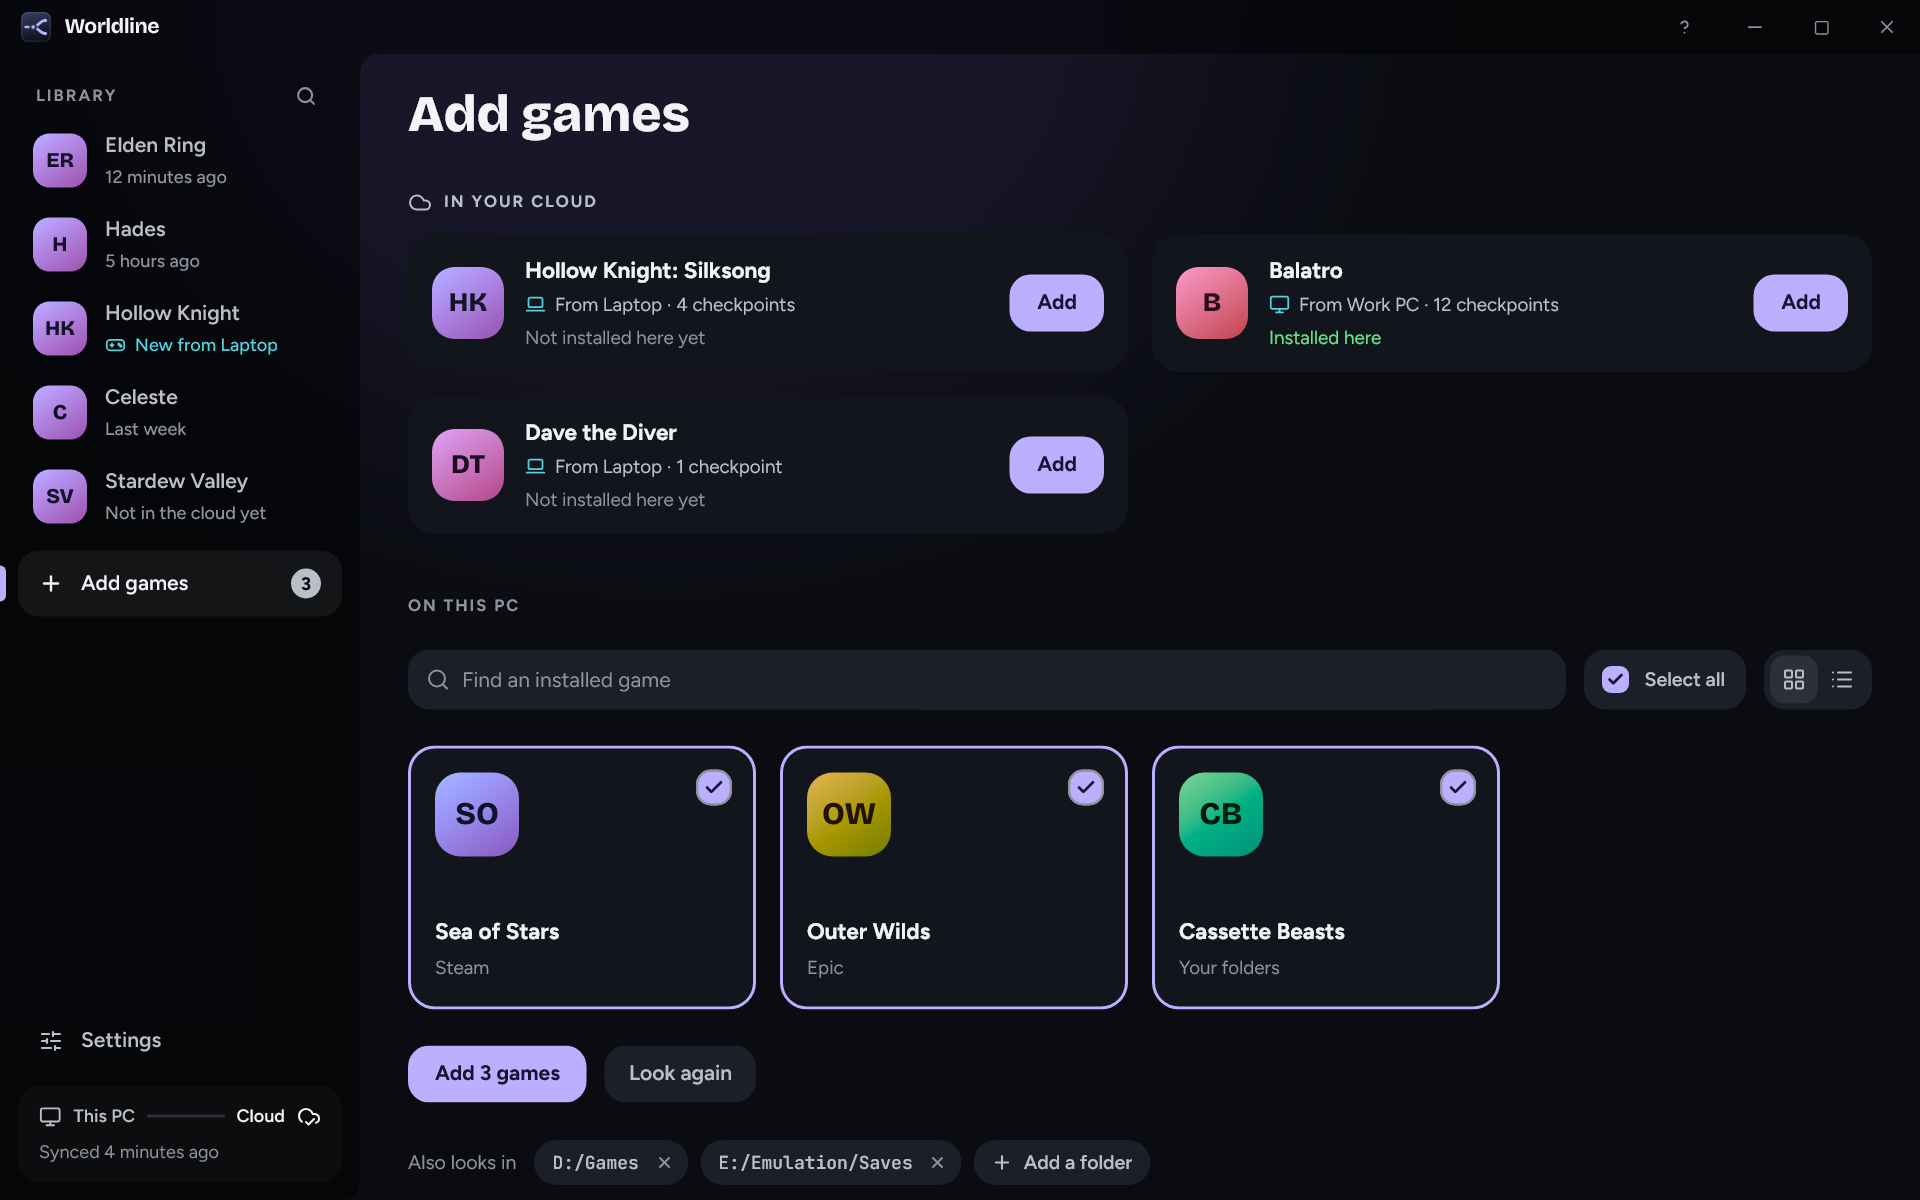
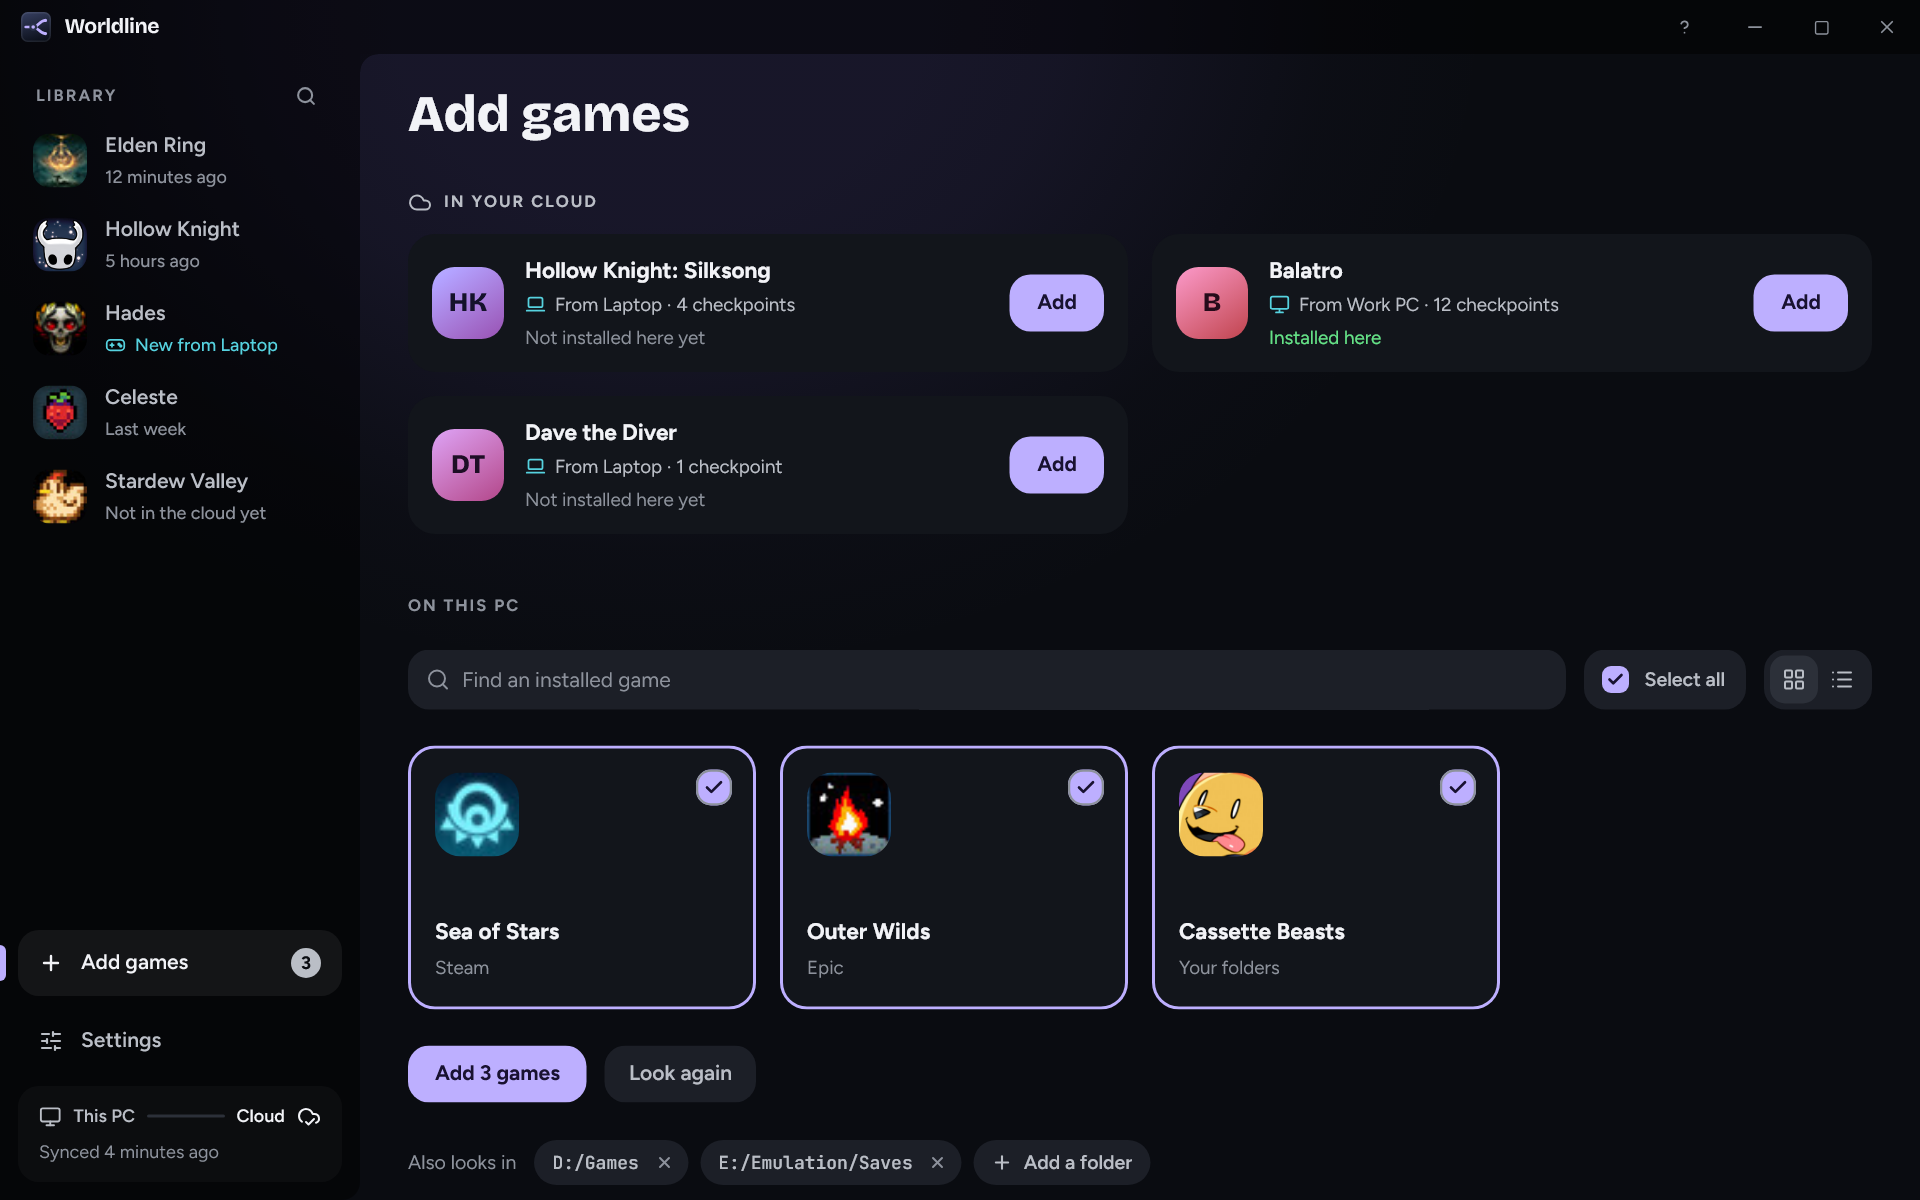
docs: README with the new screenshots, clips and the in-game popup
Hollow Knight demo saves with real game icons, recorded from a built mock
of the app; clips are animated WebP, a fraction of the old GIFs' size.

diff --git a/README.md b/README.md
@@ -14,7 +14,7 @@ Made a bad call? Rewind. Want the other path too? Keep both.
 ![Platforms: Windows | Linux](https://img.shields.io/badge/platform-Windows%20%7C%20Linux-informational)
 ![Built with Tauri](https://img.shields.io/badge/built%20with-Tauri%20v2-24C8DB?logo=tauri&logoColor=white)
 
-[Download](#installation) · [How it works](#how-it-works) · [Features](#features) · [Build from source](#building-from-source) · [Docs](docs/)
+[Download](#installation) · [How it works](#how-it-works) · [Features](#features) · [In the game](#in-the-game) · [Build from source](#building-from-source) · [Docs](docs/)
 
 <img src="docs/media/sessions.png" alt="A game's timeline in Worldline: today's session, yesterday's with a branch to another timeline, and a session played on another device" width="100%">
 
@@ -29,7 +29,7 @@ Worldline watches your games' save folders and keeps every save as a **checkpoin
 ## How it works
 
 <div align="center">
-<img src="docs/media/rewind.gif" alt="Selecting the 'Before Hydra' checkpoint, holding to rewind, and the later play splitting off as 'where you left off'" width="80%">
+<img src="docs/media/rewind.webp" alt="Selecting the 'Before Hornet' checkpoint, holding to rewind, and the later play splitting off as 'where you left off'" width="80%">
 </div>
 
 1. **Just play.** Every time the game saves, Worldline keeps a copy. Saves in quick succession become one checkpoint, and unchanged saves aren't stored again.
@@ -47,7 +47,7 @@ Name a checkpoint ("Before Malenia") to keep it forever. Unnamed ones are thinne
 - **Finds your games.** Scans Steam, Epic and your own folders, and knows where thousands of games keep their saves thanks to the [Ludusavi manifest](https://github.com/mtkennerly/ludusavi-manifest).
 - **Sync between devices** through any folder you already sync (Dropbox, OneDrive, Google Drive, Syncthing, a NAS). No account and no server. Progress from your other devices shows up wherever you play next; if two of them moved on, both runs are kept and you choose.
 - **Playthroughs.** Keep separate histories for separate runs of the same game.
-- **In-game popup and hotkeys** (Windows). A small popup tells you when a checkpoint was kept. *Quick keep* and *Name it* hotkeys save a moment without leaving the game. The popup is a separate window: nothing is injected into the game.
+- **In-game popup and hotkeys** (Windows). A small popup tells you when a checkpoint was kept. *Quick keep* and *Name it* hotkeys save a moment without leaving the game. The popup is a separate window: nothing is injected into the game ([see it](#in-the-game)).
 - **A screenshot of each checkpoint** (Windows 11), so you can see where you were.
 - **Small on disk.** Saves are deduplicated, chunked and compressed with zstd. Unchanged data is stored once across every checkpoint.
 - **Your data stays readable.** History is plain files and zstd chunks. You can [recover a save by hand](docs/storage-format.md) without the app.
@@ -56,7 +56,7 @@ Name a checkpoint ("Before Malenia") to keep it forever. Unnamed ones are thinne
 - English and Spanish. Lives in the tray.
 
 <div align="center">
-<img src="docs/media/views.gif" alt="Switching a game's history between the Sessions view and the Graph view" width="80%">
+<img src="docs/media/views.webp" alt="Switching a game's history between the Sessions view and the Graph view" width="80%">
 </div>
 
 <table>
@@ -69,6 +69,26 @@ Name a checkpoint ("Before Malenia") to keep it forever. Unnamed ones are thinne
     <td width="50%"><img src="docs/media/settings.png" alt="Settings: capture, in-game popup, cloud devices and appearance"><br><sub><b>Settings.</b> Capture timing, the in-game popup, devices and appearance.</sub></td>
   </tr>
 </table>
+
+## In the game
+
+When Worldline keeps a checkpoint, a small popup slides into a corner of the game and gets out of the way. Press a hotkey to keep the moment for good, or to name it right over the game. It works in windowed and borderless games.
+
+<table>
+  <tr>
+    <td width="50%"><img src="docs/media/overlay.webp" alt="Worldline popups in the corner of a game: recording, checkpoint 42 then 43, a new timeline, kept forever"><br><sub><b>Popups.</b> One for each checkpoint, a new timeline or a kept moment.</sub></td>
+    <td width="50%"><img src="docs/media/name-it.webp" alt="The Name it hotkey opens a card over the game; typing a name and pressing Enter keeps the checkpoint"><br><sub><b>Name it.</b> A hotkey opens a card over the game; Enter keeps it with that name.</sub></td>
+  </tr>
+</table>
+
+<p align="center">
+  <img src="docs/media/ov-chip-checkpoint.png" height="56" alt="Popup: Checkpoint #42">
+  <img src="docs/media/ov-chip-timeline.png" height="56" alt="Popup: New timeline #44, branched off Before the bridge">
+  <img src="docs/media/ov-chip-kept.png" height="56" alt="Popup: Kept forever #46">
+  <img src="docs/media/ov-chip-ahead.png" height="56" alt="Popup: Laptop is ahead, quit and sync first">
+</p>
+
+<sub>The real popups, over a stand-in game. Screenshots and clips are recorded from Worldline with demo saves.</sub>
 
 ## Installation
 
